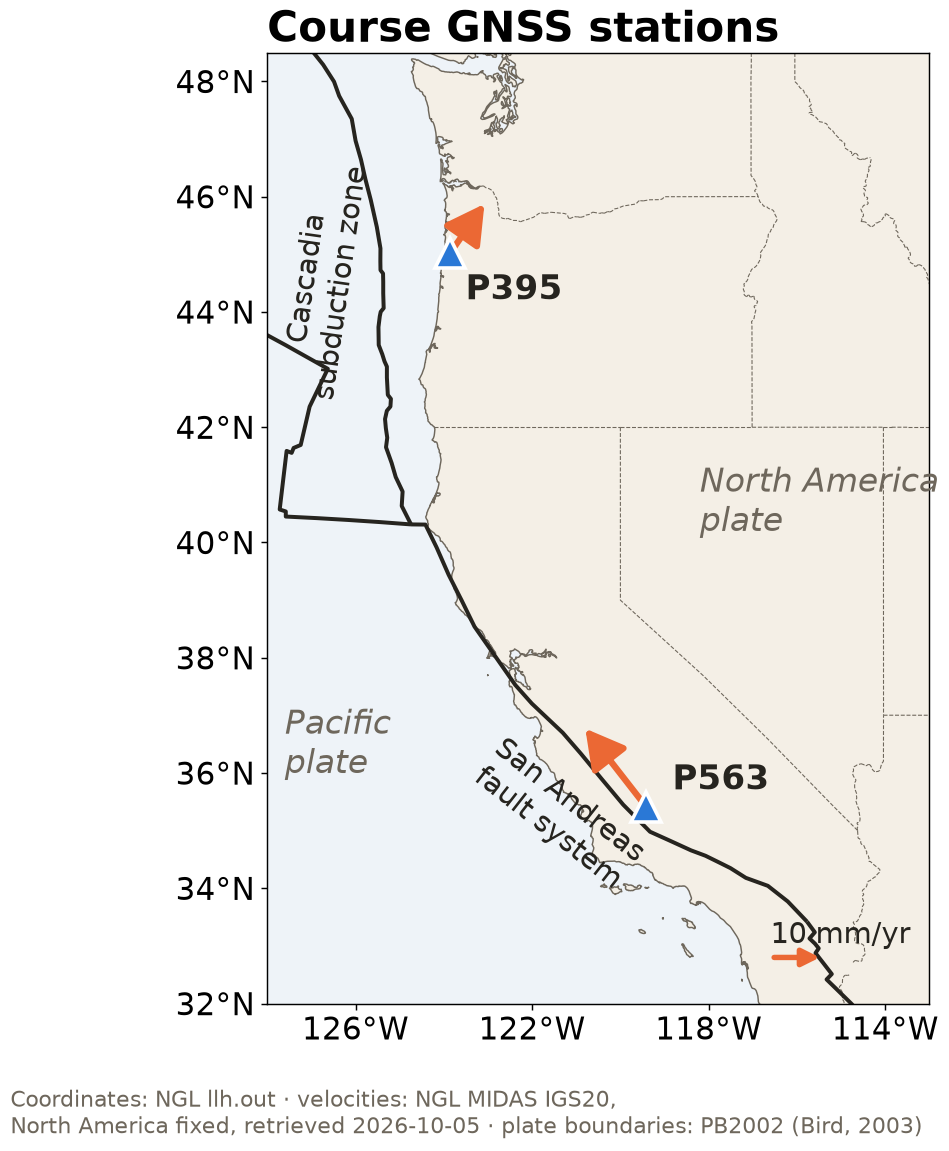
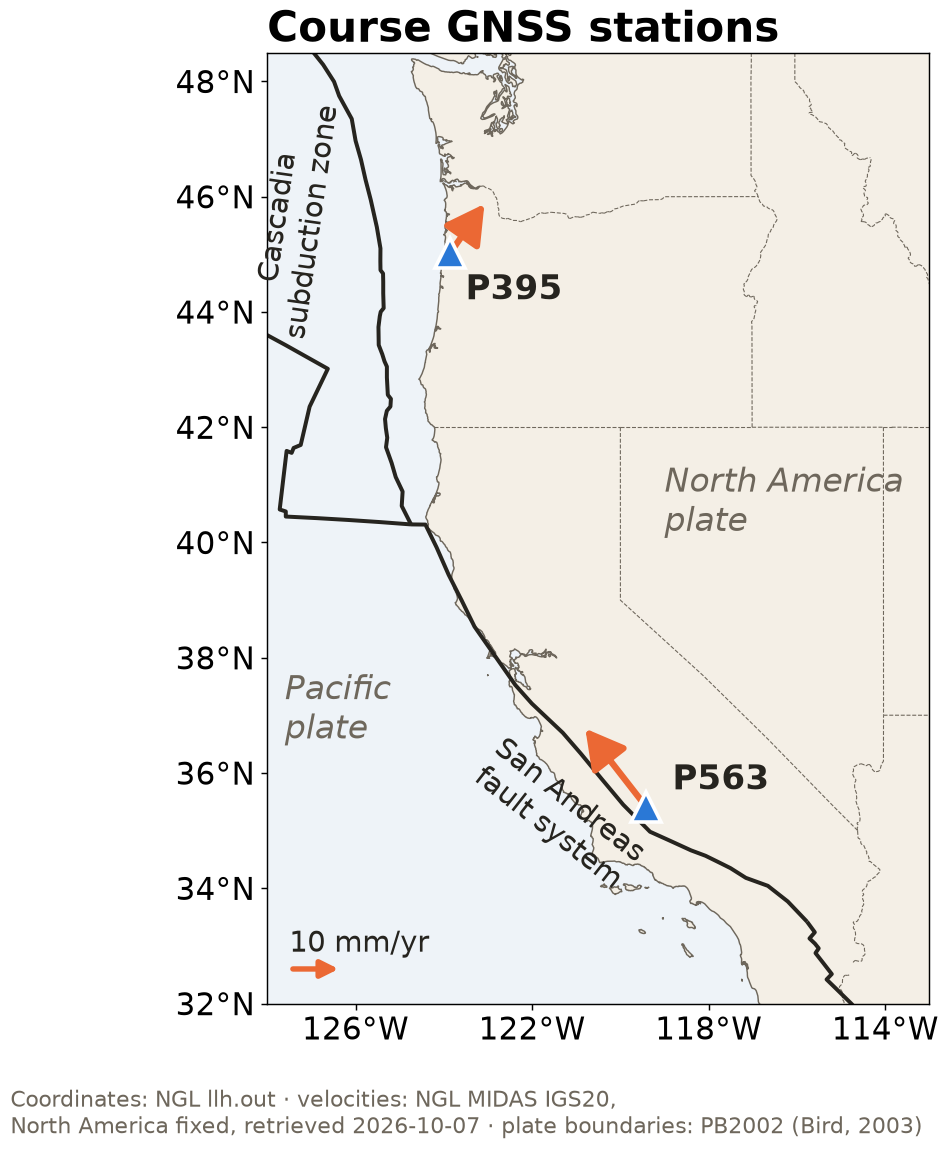
Lecture 4: single-phrase titles, footer collisions, map labels, counts
Retitles sessions 4 and 5 without two-part titles (deck, Lectures
pages, schedule). Fixes two takeaways that ran into the footer,
moves the station-map scale bar and Cascadia label off the plate
boundary (values refetched from NGL 2026-10-07, unchanged), removes
em-dashes, and updates the P395 count to 7,496 and the Natural Earth
download to 50 MB (about 170 MB unpacked). Lecture 1 notes carry the
same count.

diff --git a/book/slides/2026/lec04_meet_the_data.html b/book/slides/2026/lec04_meet_the_data.html
@@ -10,7 +10,7 @@
   <meta name="generator" content="quarto-1.9.38">
 
   <meta name="author" content="">
-  <title>Meet the data: streams, formats, and a first real dataset</title>
+  <title>Data streams, formats, and the first real dataset</title>
   <meta name="apple-mobile-web-app-capable" content="yes">
   <meta name="apple-mobile-web-app-status-bar-style" content="black-translucent">
   <meta name="viewport" content="width=device-width, initial-scale=1.0, maximum-scale=1.0, user-scalable=no, minimal-ui">
@@ -130,7 +130,7 @@
     <div class="slides">
 
 <section id="title-slide" data-background-color="#faf7f2" class="quarto-title-block center">
-  <h1 class="title">Meet the data:<br>streams, formats, and a first real dataset</h1>
+  <h1 class="title">Data streams, formats, and the first real dataset</h1>
   <p class="subtitle">Session 4 · Wed Oct 7 · Book sections 2.1–2.2 &amp; 1.6–1.7</p>
 
 <div class="quarto-title-authors">
@@ -142,12 +142,12 @@
 <p><span class="lecture-icon">🛰</span></p>
 <h3 id="todays-question">Today’s question</h3>
 <p>Every geoscience project ends up handling at least two kinds of data.</p>
-<p><strong>Which streams are yours — and what do they deserve to be stored in?</strong></p>
+<p><strong>Which streams are yours, and what do they deserve to be stored in?</strong></p>
 <div class="dim">
 <p>Reading: <a href="https://geo-smart.github.io/mlgeo-book/data-definitions">2.1 Data definitions</a> · <a href="https://geo-smart.github.io/mlgeo-book/data-formats-rendered">2.2 Data formats</a> · <a href="https://geo-smart.github.io/mlgeo-book/data-gallery">1.6 Data gallery</a> · <a href="https://geo-smart.github.io/mlgeo-book/get-geodetic-gnss">1.7 GNSS data</a></p>
 </div>
 <aside class="notes">
-<p>Frame the session: Monday was about agents and verification culture, and it ended with an AGENTS.md whose data rules say where values come from. Today opens with the peer rerun moved from Monday, then turns from reproducible code to the data that code consumes. ML projects in the geosciences succeed or fail on the data, and most of the work is upstream of any model. Two goals for the next 20 minutes: name the three data streams that run through the whole course, and see that a storage format is a scientific decision with measurable consequences — then touch the first real dataset. Ask the room to restate Monday’s three labels for their project (source, system, discipline); they map onto today’s stream table.</p>
+<p>Frame the session: Monday was about agents and verification culture, and it ended with an AGENTS.md whose data rules say where values come from. Today opens with the peer rerun moved from Monday, then turns from reproducible code to the data that code consumes. ML projects in the geosciences succeed or fail on the data, and most of the work is upstream of any model. Two goals for the next 20 minutes: name the three data streams that run through the whole course, and see that a storage format is a scientific decision with measurable consequences; then touch the first real dataset. Ask the room to restate Monday’s three labels for their project (source, system, discipline); they map onto today’s stream table.</p>
 <style type="text/css">
         span.MJX_Assistive_MathML {
           position:absolute!important;
@@ -270,28 +270,28 @@
      the deck includes it verbatim. Keep 2-4 entries: at least one where the
      concept was applied well (✓), one where its absence misled a field (✗).
      Format: verdict + bold message on one line; full citation on its own
-     line below (blank line between them — they must be separate paragraphs). -->
+     line below (blank line between them; they must be separate paragraphs). -->
 <div class="ref-item">
-<p><span class="ref-verdict note">📖</span> <span class="ref-msg">The playbook: data that are findable, accessible, interoperable, reusable — what “AI-ready” builds on.</span></p>
+<p><span class="ref-verdict note">📖</span> <span class="ref-msg">The playbook: data that are findable, accessible, interoperable, and reusable, the base that “AI-ready” builds on.</span></p>
 <p><span class="ref-cite">Wilkinson, M. D., et al.&nbsp;(2016). The FAIR Guiding Principles for scientific data management and stewardship. <em>Scientific Data</em>, 3, 160018.</span></p>
 </div>
 <div class="ref-item">
-<p><span class="ref-verdict good">✓</span> <span class="ref-msg">Doing it right: a geoscience paper whose data, provenance, and methods a reader — or a machine — can retrace.</span></p>
+<p><span class="ref-verdict good">✓</span> <span class="ref-msg">Doing it right: a geoscience paper whose data, provenance, and methods a reader, or a machine, can retrace.</span></p>
 <p><span class="ref-cite">Gil, Y., et al.&nbsp;(2016). Toward the Geoscience Paper of the Future: Best practices for documenting and sharing research from data to software to provenance. <em>Earth and Space Science</em>, 3, 388–415.</span></p>
 </div>
 <div class="ref-item">
-<p><span class="ref-verdict good">✓</span> <span class="ref-msg">Open daily positions for thousands of GNSS stations — the archive today’s P395 series comes from.</span></p>
+<p><span class="ref-verdict good">✓</span> <span class="ref-msg">Open daily positions for thousands of GNSS stations, the archive today’s P395 series comes from.</span></p>
 <p><span class="ref-cite">Blewitt, G., Hammond, W. C., &amp; Kreemer, C. (2018). Harnessing the GPS data explosion for interdisciplinary science. <em>Eos</em>, 99, doi:10.1029/2018EO104623.</span></p>
 </div>
 <div class="ref-item">
-<p><span class="ref-verdict bad">✗</span> <span class="ref-msg">A default file format silently rewrote gene names as dates — corrupting supplementary data across roughly a fifth of surveyed genomics papers.</span></p>
+<p><span class="ref-verdict bad">✗</span> <span class="ref-msg">A default file format silently rewrote gene names as dates, corrupting supplementary data across roughly a fifth of surveyed genomics papers.</span></p>
 <p><span class="ref-cite">Ziemann, M., Eren, Y., &amp; El-Osta, A. (2016). Gene name errors are widespread in the scientific literature. <em>Genome Biology</em>, 17, 177.</span></p>
 </div>
 <div class="takeaway">
-<p>Data stewardship is published, cited science — and format defaults have corrupted whole literatures.</p>
+<p>Data stewardship is cited science, and format defaults have corrupted literatures.</p>
 </div>
 <aside class="notes">
-<p>Two minutes. Wilkinson/FAIR: the 2016 principles — findable, accessible, interoperable, reusable — are the vocabulary funders and journals now require; chapter 2.13’s “AI-ready” checklist is FAIR plus benchmark splits and leakage controls. Gil: what it looks like when a geoscience paper documents data, software, and provenance so the analysis can be retraced — the standard the final project is graded against. Blewitt: the Nevada Geodetic Laboratory processes thousands of permanent GNSS stations and publishes daily positions openly — today’s P395 series is one file of that archive; cite it when you use it. Ziemann: the cautionary tale — spreadsheet software auto-converted gene names like SEPT2 to dates, and the errors sat in the published supplements of roughly a fifth of surveyed genomics papers. A format default, not a scientist, rewrote the data. Refs file updates monthly — bring candidates.</p>
+<p>Two minutes. Wilkinson/FAIR: the 2016 principles (findable, accessible, interoperable, reusable) are the vocabulary funders and journals now require; chapter 2.13’s “AI-ready” checklist is FAIR plus benchmark splits and leakage controls. Gil: what it looks like when a geoscience paper documents data, software, and provenance so the analysis can be retraced, the standard the final project is graded against. Blewitt: the Nevada Geodetic Laboratory processes thousands of permanent GNSS stations and publishes daily positions openly; today’s P395 series is one file of that archive; cite it when you use it. Ziemann: the cautionary tale. Spreadsheet software auto-converted gene names like SEPT2 to dates, and the errors sat in the published supplements of roughly a fifth of surveyed genomics papers. A format default, not a scientist, rewrote the data. Refs file updates monthly; bring candidates.</p>
 <style type="text/css">
         span.MJX_Assistive_MathML {
           position:absolute!important;
@@ -343,10 +343,10 @@
 </tbody>
 </table>
 <div class="takeaway">
-<p>The three get equal treatment in Chapter 2 — because every project ends up handling at least two of them.</p>
+<p>The three get equal treatment in Chapter 2, because every project ends up handling at least two of them.</p>
 </div>
 <aside class="notes">
-<p>This is the chapter’s organizing principle. Walk one example per row: a seismogram is clocked — the instrument fixes the sampling and never misses on purpose; a satellite field is a grid over a region, often with a time axis stacked on; a groundwater network is measured where the wells are and when the crew visits — nothing regular about it. Ask teams to place their project data: most place two streams, which is the point. Preview: sessions 5 and 6 take tables and series/grids in turn; the irregular stream returns Monday with the multi-well network.</p>
+<p>This is the chapter’s organizing principle. Walk one example per row: a seismogram is clocked: the instrument fixes the sampling and never misses on purpose; a satellite field is a grid over a region, often with a time axis stacked on; a groundwater network is measured where the wells are and when the crew visits, with nothing regular about it. Ask teams to place their project data: most place two streams, which is the point. Preview: sessions 5 and 6 take tables and series/grids in turn; the irregular stream returns Monday with the multi-well network.</p>
 <style type="text/css">
         span.MJX_Assistive_MathML {
           position:absolute!important;
@@ -362,15 +362,15 @@
 <section id="two-containers" class="slide level2">
 <h2>Two containers</h2>
 <ul>
-<li><strong>Arrays</strong> — values on a grid; the dimensions carry the meaning (time, latitude, depth)</li>
-<li><strong>Data frames</strong> — one data sample per row, one variable per column; mixed types welcome</li>
+<li><strong>Arrays</strong>: values on a grid; the dimensions carry the meaning (time, latitude, depth)</li>
+<li><strong>Data frames</strong>: one data sample per row, one variable per column; mixed types welcome</li>
 <li>Most projects need both: a gridded field of covariates <em>and</em> a table of observations</li>
 </ul>
 <div class="takeaway">
 <p>Choose the container from the data’s structure, not from the software you opened first.</p>
 </div>
 <aside class="notes">
-<p>Define both aloud with a physical example: a 3D array of temperature over latitude, longitude, and time — position in the array IS the coordinate; versus the earthquake catalog — each row one event, columns of time, position, magnitude, text description. Mention modality vocabulary from 2.1 without dwelling: in-situ, remote sensing, model output, geophysical (indirect subsurface). The 2.13 capstone joins the two containers — extracting raster covariates at station locations — so both matter to every team. Implementation names for the notebook, not the slide: NumPy/Xarray for arrays, pandas for data frames.</p>
+<p>Define both aloud with a physical example: a 3D array of temperature over latitude, longitude, and time, where position in the array IS the coordinate; versus the earthquake catalog, where each row is one event, columns of time, position, magnitude, text description. Mention modality vocabulary from 2.1 without dwelling: in-situ, remote sensing, model output, geophysical (indirect subsurface). The 2.13 capstone joins the two containers (extracting raster covariates at station locations), so both matter to every team. Implementation names for the notebook, not the slide: NumPy/Xarray for arrays, pandas for data frames.</p>
 <style type="text/css">
         span.MJX_Assistive_MathML {
           position:absolute!important;
@@ -386,19 +386,19 @@
 <section id="the-same-field-on-disk" class="slide level2 smaller">
 <h2>The same field, on disk</h2>
 <div class="big-number">
-<p>133 kB <span class="unit">as CSV — every number spelled out in text</span></p>
+<p>133 kB <span class="unit">as CSV: every number spelled out in text</span></p>
 </div>
 <div class="big-number">
-<p>33 kB <span class="unit">as Parquet — the same table, typed and compressed</span></p>
+<p>33 kB <span class="unit">as Parquet: the same table, typed and compressed</span></p>
 </div>
 <div class="dim">
-<p>One 40 × 80 temperature-anomaly field, 3,200 grid cells — synthetic (mlgeo_synth), measured in the executed 2.2 notebook.</p>
+<p>One 40 × 80 temperature-anomaly field, 3,200 grid cells; synthetic (mlgeo_synth), measured in the executed 2.2 notebook.</p>
 </div>
 <div class="takeaway">
 <p>Text formats store digits; binary formats store numbers. The gap grows with dataset size.</p>
 </div>
 <aside class="notes">
-<p>These are the notebook’s own measured numbers — students reproduce them in the exercise. Why the factor of four: CSV writes “9.932382” as eight characters plus separators; Parquet stores an 8-byte float, columnwise, then compresses. At 3,200 cells the gap is 100 kB and nobody cares; at a decade of satellite fields it is the difference between an archive that is usable and one that is not. Also name what CSV throws away: the dtype (everything is text until re-parsed) and the metadata (units live in a README, if anywhere). CSV remains fine for small, human-inspected tables — the course data gallery uses it deliberately.</p>
+<p>These are the notebook’s own measured numbers; students reproduce them in the exercise. Why the factor of four: CSV writes “9.932382” as eight characters plus separators; Parquet stores an 8-byte float, columnwise, then compresses. At 3,200 cells the gap is 100 kB and nobody cares; at a decade of satellite fields it is the difference between an archive that is usable and one that is not. Also name what CSV throws away: the dtype (everything is text until re-parsed) and the metadata (units live in a README, if anywhere). CSV remains fine for small, human-inspected tables, and the course data gallery uses it deliberately.</p>
 <style type="text/css">
         span.MJX_Assistive_MathML {
           position:absolute!important;
@@ -434,7 +434,7 @@
 </tr>
 <tr class="even">
 <td><strong>Parquet</strong></td>
-<td>large tables — columnar, typed, compressed</td>
+<td>large tables: columnar, typed, compressed</td>
 <td>33.0 kB</td>
 </tr>
 <tr class="odd">
@@ -444,16 +444,16 @@
 </tr>
 <tr class="even">
 <td><strong>Zarr</strong></td>
-<td>chunked arrays — parallel, partial reads from cloud storage</td>
+<td>chunked arrays: parallel, partial reads from cloud storage</td>
 <td>29.9 kB</td>
 </tr>
 </tbody>
 </table>
 <div class="takeaway">
-<p>The binary formats tie at this size — the difference is what each promises: readability, speed, self-description, or cloud-scale access.</p>
+<p>The binary formats tie at this size; they differ in what they promise.</p>
 </div>
 <aside class="notes">
-<p>Read the column, then the promises. netCDF: built by the climate community; the file carries its own dimensions, units, and attributes — open it anywhere and it explains itself; netCDF4 is HDF5 underneath (the notebook opens the same file with both libraries). Zarr: not one file but a directory of compressed chunks plus small metadata — a cloud object store can serve a thousand parallel readers each grabbing only their chunk, which is exactly the access pattern netCDF/HDF5 are slow at. Honorable mentions from 2.1 for the notes-curious: GeoTIFF/COG for rasters (the notebook’s Natural Earth relief map — real data), GeoJSON/GeoParquet for vector geometries (the four Cascade volcanoes), STAC for catalogs. Rule of thumb: tables → CSV small / Parquet large; arrays → netCDF local / Zarr cloud.</p>
+<p>Read the column, then the promises. netCDF: built by the climate community; the file carries its own dimensions, units, and attributes, so open it anywhere and it explains itself; netCDF4 is HDF5 underneath (the notebook opens the same file with both libraries). Zarr: not one file but a directory of compressed chunks plus small metadata, so a cloud object store can serve a thousand parallel readers each grabbing only their chunk, which is exactly the access pattern netCDF/HDF5 are slow at. Honorable mentions from 2.1 for the notes-curious: GeoTIFF/COG for rasters (the notebook’s Natural Earth relief map, real data), GeoJSON/GeoParquet for vector geometries (the four Cascade volcanoes), STAC for catalogs. Rule of thumb: tables → CSV small / Parquet large; arrays → netCDF local / Zarr cloud.</p>
 <style type="text/css">
         span.MJX_Assistive_MathML {
           position:absolute!important;
@@ -478,7 +478,7 @@
 <p><strong>P395</strong>, Oregon Coast Range, above the Cascadia subduction zone: 12.7 mm/yr to the northeast; vertical +0.2 ± 0.4 mm/yr, not resolved.</p>
 <p><strong>P563</strong>, southern San Joaquin Valley, California, in the Pacific–North America plate boundary zone: 18.6 mm/yr to the northwest; subsides at 7.2 ± 0.5 mm/yr.</p>
 <div class="dim">
-<p>Horizontal rates relative to stable North America (arrows). NGL MIDAS, IGS20 solution, retrieved 2026-10-05.</p>
+<p>Horizontal rates relative to stable North America (arrows). NGL MIDAS, IGS20 solution, retrieved 2026-10-07.</p>
 </div>
 </div></div>
 <div class="takeaway">
@@ -505,10 +505,10 @@
 </div>
 <img data-src="figs/1.7_get_geodetic_gnss/fig_01.png" class="r-stretch">
 <div class="takeaway">
-<p>Plate tectonics, measured daily to a few millimeters: GNSS stations P395 (Oregon Coast Range) and P563 (San Joaquin Valley, California) drift steadily; P395 has 7,418 daily solutions since 2006. Real data: NGL, IGS20 frame.</p>
+<p>Plate motion measured daily to a few millimeters: 7,496 daily positions at P395 since 2006 (NGL, IGS20 frame).</p>
 </div>
 <aside class="notes">
-<p>The course’s first real dataset — savor it. Each point is one daily position solution; the y-axis is east displacement relative to the first day. The smooth drift is plate motion in the IGS20 global reference frame (define: the current international terrestrial reference frame — positions are relative to the whole Earth, so trends are real plate velocities). At P395, NGL’s MIDAS solution gives an east rate of −6.4 ± 0.2 mm/yr in this IGS20 frame (westward), and +6.9 mm/yr relative to stable North America, as on the map slide; students fit it themselves, with honest error bars, in section 2.6 on Monday Oct 12, and compare with NGL’s value. Look closer: seasonal wiggles from water and snow loading, and small offsets from equipment changes or earthquakes — every later lesson (trend fitting, gap repair, splits) returns to this station. Credit aloud: Nevada Geodetic Laboratory, Blewitt et al.&nbsp;2018.</p>
+<p>The course’s first real dataset; savor it. Each point is one daily position solution; the y-axis is east displacement relative to the first day. The smooth drift is plate motion in the IGS20 global reference frame (define: the current international terrestrial reference frame; positions are relative to the whole Earth, so trends are real plate velocities). At P395, NGL’s MIDAS solution gives an east rate of −6.4 ± 0.2 mm/yr in this IGS20 frame (westward), and +6.9 mm/yr relative to stable North America, as on the map slide; students fit it themselves, with honest error bars, in section 2.6 on Monday Oct 12, and compare with NGL’s value. Look closer: seasonal wiggles from water and snow loading, and small offsets from equipment changes or earthquakes; every later lesson (trend fitting, gap repair, splits) returns to this station. Credit aloud: Nevada Geodetic Laboratory, Blewitt et al.&nbsp;2018.</p>
 <style type="text/css">
         span.MJX_Assistive_MathML {
           position:absolute!important;
@@ -524,15 +524,15 @@
 <section id="frozen-data-living-data" class="slide level2">
 <h2>Frozen data, living data</h2>
 <ul>
-<li><strong>Frozen file</strong> (a released dataset): pin its checksum — every future run verifies it got the same bytes</li>
-<li><strong>Living file</strong> (NGL appends a new solution daily): pin nothing — <em>log</em> the checksum you actually received</li>
+<li><strong>Frozen file</strong> (a released dataset): pin its checksum, so every future run verifies it got the same bytes</li>
+<li><strong>Living file</strong> (NGL appends a new solution daily): pin nothing, and <em>log</em> the checksum you actually received</li>
 <li>Publishing or grading? Freeze a snapshot and pin <em>that</em></li>
 </ul>
 <div class="takeaway">
-<p>Either way, your analysis names its exact input — that is provenance, and it costs one line.</p>
+<p>Either way, your analysis names its exact input: that is provenance, and it costs one line.</p>
 </div>
 <aside class="notes">
-<p>This is 1.6/1.7’s quiet lesson and the habit HW1 grades. Define checksum aloud: a fingerprint of the file’s bytes; if one bit changes, the fingerprint changes. The download tool (pooch, named in the notebook) fetches, caches, and verifies in three lines. The subtlety students hit: a pinned hash on a living file <em>fails tomorrow by design</em> — the file really changed; that failure is information, not a bug. Second habit from 1.6: every dataset carries a license and a citation — carry both forward into your repository. Ask: who can name the license of the data they plan to use? Most cannot — that is this week’s homework moment.</p>
+<p>This is 1.6/1.7’s quiet lesson and the habit HW1 grades. Define checksum aloud: a fingerprint of the file’s bytes; if one bit changes, the fingerprint changes. The download tool (pooch, named in the notebook) fetches, caches, and verifies in three lines. The subtlety students hit: a pinned hash on a living file <em>fails tomorrow by design</em>: the file really changed; that failure is information, not a bug. Second habit from 1.6: every dataset carries a license and a citation; carry both forward into your repository. Ask: who can name the license of the data they plan to use? Most cannot, and that is this week’s homework moment.</p>
 <style type="text/css">
         span.MJX_Assistive_MathML {
           position:absolute!important;
@@ -584,10 +584,10 @@
 </tbody>
 </table>
 <div class="takeaway">
-<p>Naming your streams and formats is the first line of your project’s data card — start it today.</p>
+<p>Naming your streams and formats is the first line of your project’s data card; start it today.</p>
 </div>
 <aside class="notes">
-<p>The lecture in one screen — leave it up for questions. Each row: the stream (from slide 3), the dataset the students touched or will touch today, the container (slide 4), and format choices with their size/promise trade-offs (slides 5–6). Connect forward: chapter 2 ends with the AI-ready checklist (2.13) and the final-project data assignment (2.20) — a data card documenting exactly these choices plus provenance and licensing. The vocabulary students leave with: stream, container, format, checksum, data card.</p>
+<p>The lecture in one screen; leave it up for questions. Each row: the stream (from slide 3), the dataset the students touched or will touch today, the container (slide 4), and format choices with their size/promise trade-offs (slides 5–6). Connect forward: chapter 2 ends with the AI-ready checklist (2.13) and the final-project data assignment (2.20), a data card documenting exactly these choices plus provenance and licensing. The vocabulary students leave with: stream, container, format, checksum, data card.</p>
 <style type="text/css">
         span.MJX_Assistive_MathML {
           position:absolute!important;
@@ -600,8 +600,8 @@
           display:block!important;
       }</style></aside>
 </section>
-<section id="now-run-it-yourself-open-2.2" class="slide level2">
-<h2>Now run it yourself — open 2.2</h2>
+<section id="run-notebook-2.2" class="slide level2">
+<h2>Run notebook 2.2</h2>
 <ol type="1">
 <li><code>pixi run jupyter lab</code> → <code>2.2_data_formats_rendered.ipynb</code></li>
 <li>Run the round-trips: JSON → CSV/Parquet → GeoTIFF/GeoJSON → netCDF → Zarr; reproduce the size table</li>
@@ -609,10 +609,10 @@
 <li>Browse the data gallery (1.6): pick one dataset near your project; find its license and citation, and give it its three labels</li>
 </ol>
 <div class="dim">
-<p>Friday: tables that tell the truth (2.3–2.4) · Ch 1 quiz closes Thu Oct 8 · HW1 due Mon Oct 12</p>
+<p>Friday: cleaning tables without rewriting the geology (2.3–2.4) · Ch 1 quiz closes Thu Oct 8 · HW1 due Mon Oct 12</p>
 </div>
 <aside class="notes">
-<p>Timing for the 80-minute block (10:00–11:20): no pulse talks yet this week. Intro and admin about 5 minutes, peer rerun 10, deck 20 (including the curation map and the station map), guided notebook 35, synthesis 10 collecting task-4 answers: each team names one dataset, its stream, its license, and its three labels. Implementation names live here and in the notebook: pandas read_csv/to_parquet, rasterio for GeoTIFF, geopandas for GeoJSON, xarray to_netcdf/to_zarr, h5py to peek inside HDF5, pooch.retrieve with known_hash. The Natural Earth raster download is ~100 MB — have neighbors share if the room’s wifi chokes. Remind: Ch 1 quiz closes tomorrow; HW1 (workbench) due Monday; paper-pulse sign-ups are open on Canvas.</p>
+<p>Timing for the 80-minute block (10:00–11:20): no pulse talks yet this week. Intro and admin about 5 minutes, peer rerun 10, deck 20 (including the curation map and the station map), guided notebook 35, synthesis 10 collecting task-4 answers: each team names one dataset, its stream, its license, and its three labels. Implementation names live here and in the notebook: pandas read_csv/to_parquet, rasterio for GeoTIFF, geopandas for GeoJSON, xarray to_netcdf/to_zarr, h5py to peek inside HDF5, pooch.retrieve with known_hash. The Natural Earth raster is a 50 MB download that unpacks to about 170 MB; have neighbors share if the room’s wifi chokes. Remind: Ch 1 quiz closes tomorrow; HW1 (workbench) due Monday; paper-pulse sign-ups are open on Canvas.</p>
 <style type="text/css">
         span.MJX_Assistive_MathML {
           position:absolute!important;

diff --git a/book/slides/2026/lec01_why_ml_geosciences.html b/book/slides/2026/lec01_why_ml_geosciences.html
@@ -209,7 +209,7 @@
 <p>A daily position record measures plate motion, plate-boundary deformation, and seasonal loading in one signal; separating them is a modeling task.</p>
 </div>
 <aside class="notes">
-<p>This is the course’s first data set; notebook 1.7 downloads it live and it returns in Chapters 2 and 3. All rates are NGL MIDAS (IGS20 solution), retrieved 2026-10-05. Read the time series first: it is the east position in the global IGS20 frame. P395 moves east at −6.4 mm/yr and P563 at −23.5 mm/yr in that frame. Relative to stable North America the same stations move +6.9 and −11.9 mm/yr east, so the plate’s own motion accounts for 13.3 and 11.6 mm/yr of westward drift; that is the meaning of “reference frame”, which session 3 returns to. At P395 the remaining northeast motion is commonly attributed to elastic loading of the upper plate while the subduction interface is locked, with a contribution from rotation of the Oregon forearc (McCaffrey et al., 2013). At P563, about half of the 2.3 cm/yr westward drift is the plate and half is shear across the Pacific–North America boundary zone; the station also subsides at 7.2 mm/yr, a rate consistent with groundwater extraction in the San Joaquin Valley. The annual oscillations at both stations are seasonal signals such as hydrological loading. P395 has 7,418 daily solutions in the course file. Ask the room: what could you extract from this? (Velocities, seasonal loading, earthquake offsets, slow slip.) Open-science point: this exists because NGL publishes it freely; cite Blewitt et al.&nbsp;(2018, Eos). Data citation is part of section 1.1.</p>
+<p>This is the course’s first data set; notebook 1.7 downloads it live and it returns in Chapters 2 and 3. All rates are NGL MIDAS (IGS20 solution), retrieved 2026-10-05. Read the time series first: it is the east position in the global IGS20 frame. P395 moves east at −6.4 mm/yr and P563 at −23.5 mm/yr in that frame. Relative to stable North America the same stations move +6.9 and −11.9 mm/yr east, so the plate’s own motion accounts for 13.3 and 11.6 mm/yr of westward drift; that is the meaning of “reference frame”, which session 3 returns to. At P395 the remaining northeast motion is commonly attributed to elastic loading of the upper plate while the subduction interface is locked, with a contribution from rotation of the Oregon forearc (McCaffrey et al., 2013). At P563, about half of the 2.3 cm/yr westward drift is the plate and half is shear across the Pacific–North America boundary zone; the station also subsides at 7.2 mm/yr, a rate consistent with groundwater extraction in the San Joaquin Valley. The annual oscillations at both stations are seasonal signals such as hydrological loading. P395 has 7,496 daily solutions in the course file as of Oct 7, 2026 (the file grows daily). Ask the room: what could you extract from this? (Velocities, seasonal loading, earthquake offsets, slow slip.) Open-science point: this exists because NGL publishes it freely; cite Blewitt et al.&nbsp;(2018, Eos). Data citation is part of section 1.1.</p>
 <style type="text/css">
         span.MJX_Assistive_MathML {
           position:absolute!important;

diff --git a/book/slides/2026/figscripts/gnss_stations_map.py b/book/slides/2026/figscripts/gnss_stations_map.py
@@ -91,13 +91,13 @@ for sta in STATIONS:
             sta,
             fontsize=19, color=INK, va="top", fontweight="bold")
 
-ax.text(-127.6, 36.0, "Pacific\nplate", fontsize=18, color=MUTED, style="italic")
-ax.text(-118.2, 40.2, "North America\nplate", fontsize=18, color=MUTED, style="italic")
-ax.text(-126.7, 42.6, "Cascadia\nsubduction zone", fontsize=16, color=INK, rotation=82, ha="center")
+ax.text(-127.6, 36.6, "Pacific\nplate", fontsize=18, color=MUTED, style="italic")
+ax.text(-119.0, 40.2, "North America\nplate", fontsize=18, color=MUTED, style="italic")
+ax.text(-127.35, 45.6, "Cascadia\nsubduction zone", fontsize=16, color=INK, rotation=82, ha="center", va="center")
 ax.text(-121.4, 34.0, "San Andreas\nfault system", fontsize=16, color=INK, rotation=-38, ha="center")
-ax.annotate("", xy=(-116.6 + 10 * scale, 32.8), xytext=(-116.6, 32.8),
+ax.annotate("", xy=(-127.5 + 10 * scale, 32.6), xytext=(-127.5, 32.6),
             arrowprops=dict(arrowstyle="-|>", color=ARROW_C, lw=3))
-ax.text(-116.6, 33.05, "10 mm/yr", fontsize=16, color=INK)
+ax.text(-127.5, 32.9, "10 mm/yr", fontsize=16, color=INK)
 ax.set_title("Course GNSS stations", loc="left")
 fig.text(0.01, 0.005, f"Coordinates: NGL llh.out · velocities: NGL MIDAS IGS20,\nNorth America fixed, "
          f"retrieved {dt.date.today().isoformat()} · plate boundaries: PB2002 (Bird, 2003)",

diff --git a/tools/gen_lecture_pages.py b/tools/gen_lecture_pages.py
@@ -2,7 +2,7 @@
 
 One page per deck in book/slides/2026/lec*.qmd, in session order, plus an
 overview table. Everything comes from each deck's front matter:
-  title:    "Meet the data:<br>streams, formats, and a first real dataset"
+  title:    "Data streams, formats, and the first real dataset"
   subtitle: "Session 4 · Wed Oct 7 · Book sections 2.1–2.2 & 1.6–1.7"
 Book section numbers are resolved to the book pages that carry them, so the
 links follow the sessions' order rather than the chapters'.

diff --git a/book/Lectures/readme.md b/book/Lectures/readme.md
@@ -11,8 +11,8 @@ The course meets three times a week, and the sessions draw on the book out of ch
 | 1 | Wed Sep 30 | [Why machine learning in the geosciences](lec01_why_ml_geosciences.md) | [1.1](../Chapter1-GettingStarted/1.1_open_reproducible_science.md) |
 | 2 | Fri Oct 2 | [Your reproducible workbench](lec02_your_workbench.md) | [1.1](../Chapter1-GettingStarted/1.1_open_reproducible_science.md) · [1.2](../Chapter1-GettingStarted/1.2_jupyter_environment.md) · [1.3](../Chapter1-GettingStarted/1.3_python_environment.md) · [1.4](../Chapter1-GettingStarted/1.4_computational_environments.md) · [1.5](../Chapter1-GettingStarted/1.5_version_control_git.md) · [1.9](../Chapter1-GettingStarted/1.9_workbench_setup_hw1.md) |
 | 3 | Mon Oct 5 | [Reproducible work with agents](lec03_working_with_agents.md) | [1.8](../Chapter1-GettingStarted/1.8_ai_in_your_workflow.md) · [6.1](../Chapter6-AgenticAI/6.1_llms_to_agents.md) |
-| 4 | Wed Oct 7 | [Meet the data: streams, formats, and a first real dataset](lec04_meet_the_data.md) | [2.1](../Chapter2-DataManipulation/2.1_Data_Definitions.md) · [2.2](../Chapter2-DataManipulation/2.2_data_formats_rendered.ipynb) · [1.6](../Chapter1-GettingStarted/1.6_data_gallery.md) · [1.7](../Chapter1-GettingStarted/1.7_get_geodetic_gnss.ipynb) |
-| 5 | Fri Oct 9 | [Tables that tell the truth: cleaning without rewriting the geology](lec05_tables_that_tell_the_truth.md) | [2.3](../Chapter2-DataManipulation/2.3_pandas_rendered.ipynb) · [2.4](../Chapter2-DataManipulation/2.4_dataframes_prep.ipynb) |
+| 4 | Wed Oct 7 | [Data streams, formats, and the first real dataset](lec04_meet_the_data.md) | [2.1](../Chapter2-DataManipulation/2.1_Data_Definitions.md) · [2.2](../Chapter2-DataManipulation/2.2_data_formats_rendered.ipynb) · [1.6](../Chapter1-GettingStarted/1.6_data_gallery.md) · [1.7](../Chapter1-GettingStarted/1.7_get_geodetic_gnss.ipynb) |
+| 5 | Fri Oct 9 | [Cleaning tables without rewriting the geology](lec05_tables_that_tell_the_truth.md) | [2.3](../Chapter2-DataManipulation/2.3_pandas_rendered.ipynb) · [2.4](../Chapter2-DataManipulation/2.4_dataframes_prep.ipynb) |
 | 6 | Mon Oct 12 | [Sampling, resampling, and irregular data](lec06_sampling_resampling.md) | [2.5](../Chapter2-DataManipulation/2.5_Arrays.ipynb) · [2.6](../Chapter2-DataManipulation/2.6_resampling.ipynb) |
 | 7 | Wed Oct 14 | [Statistics and spectra of geoscience signals](lec07_statistics_spectra.md) | [2.7](../Chapter2-DataManipulation/2.7_statistical_considerations.ipynb) · [2.8](../Chapter2-DataManipulation/2.8_data_spectral_transforms.ipynb) |
 | 8 | Fri Oct 16 | [Repairing real records](lec08_repairing_records.md) | [2.9](../Chapter2-DataManipulation/2.9_filtering_data.ipynb) |

diff --git a/book/about_this_book/schedule_fall2026.md b/book/about_this_book/schedule_fall2026.md
@@ -43,8 +43,8 @@ Chapter 7 has no quiz: its outcomes (audience translation, downstream impact) ar
 
 **Week 2 — Agents, then data** (Ch 1 quiz Tue–Thu)
 - Mon Oct 5 — **Reproducible work with agents** ([1.8](../Chapter1-GettingStarted/1.8_ai_in_your_workflow.md) + [6.1](../Chapter6-AgenticAI/6.1_llms_to_agents.md)): score the sprint paper with the class rubric; connect agents, tools, environments, sandboxes, and hardware; measure numeric and citation failures; peer-rerun a repository; publish rubric v0.2 for AI-assisted work. Reading arc stage 1 assigned; paper-pulse sign-ups open. · [slides](https://geo-smart.github.io/mlgeo-book/slides/2026/lec03_working_with_agents.html)
-- Wed Oct 7 — Meet the data: definitions and formats ([2.1](../Chapter2-DataManipulation/2.1_Data_Definitions.md)–[2.2](../Chapter2-DataManipulation/2.2_data_formats_rendered.ipynb)), the data gallery, and a first real dataset ([1.6](../Chapter1-GettingStarted/1.6_data_gallery.md)–[1.7](../Chapter1-GettingStarted/1.7_get_geodetic_gnss.ipynb)). · [slides](https://geo-smart.github.io/mlgeo-book/slides/2026/lec04_meet_the_data.html)
-- Fri Oct 9 — Tables: pandas and dataframe preparation ([2.3](../Chapter2-DataManipulation/2.3_pandas_rendered.ipynb)–[2.4](../Chapter2-DataManipulation/2.4_dataframes_prep.ipynb)). · [slides](https://geo-smart.github.io/mlgeo-book/slides/2026/lec05_tables_that_tell_the_truth.html)
+- Wed Oct 7 — Data streams, formats, and the first real dataset ([2.1](../Chapter2-DataManipulation/2.1_Data_Definitions.md)–[2.2](../Chapter2-DataManipulation/2.2_data_formats_rendered.ipynb)), the data gallery, and a first real dataset ([1.6](../Chapter1-GettingStarted/1.6_data_gallery.md)–[1.7](../Chapter1-GettingStarted/1.7_get_geodetic_gnss.ipynb)). · [slides](https://geo-smart.github.io/mlgeo-book/slides/2026/lec04_meet_the_data.html)
+- Fri Oct 9 — Cleaning tables without rewriting the geology ([2.3](../Chapter2-DataManipulation/2.3_pandas_rendered.ipynb)–[2.4](../Chapter2-DataManipulation/2.4_dataframes_prep.ipynb)). · [slides](https://geo-smart.github.io/mlgeo-book/slides/2026/lec05_tables_that_tell_the_truth.html)
 
 **Week 3 — Signals** (HW1 due Mon)
 - Mon Oct 12 — Arrays and gridded data ([2.5](../Chapter2-DataManipulation/2.5_Arrays.ipynb)); resampling and irregular data ([2.6](../Chapter2-DataManipulation/2.6_resampling.ipynb)). · [slides](https://geo-smart.github.io/mlgeo-book/slides/2026/lec06_sampling_resampling.html)

diff --git a/book/Lectures/lec05_tables_that_tell_the_truth.md b/book/Lectures/lec05_tables_that_tell_the_truth.md
@@ -1,5 +1,5 @@
 ---
-title: "Session 5 · Tables that tell the truth: cleaning without rewriting the geology"
+title: "Session 5 · Cleaning tables without rewriting the geology"
 ---
 
 <!-- Generated by tools/gen_lecture_pages.py from the deck front matter. Do not edit by hand. -->

diff --git a/book/Lectures/lec04_meet_the_data.md b/book/Lectures/lec04_meet_the_data.md
@@ -1,5 +1,5 @@
 ---
-title: "Session 4 · Meet the data: streams, formats, and a first real dataset"
+title: "Session 4 · Data streams, formats, and the first real dataset"
 ---
 
 <!-- Generated by tools/gen_lecture_pages.py from the deck front matter. Do not edit by hand. -->
